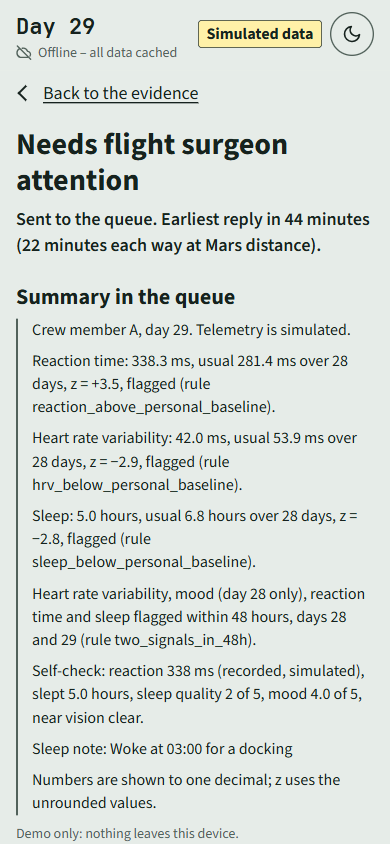
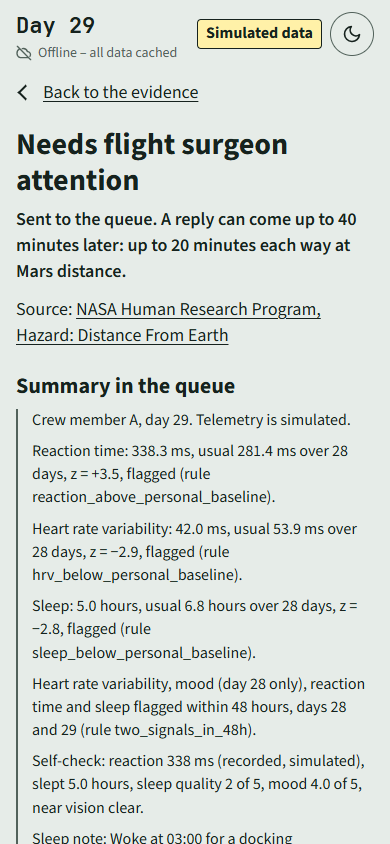
Mars delay: up to 20 minutes one way, up to 40 round trip, from NASA's Distance from Earth page

diff --git a/web/index.html b/web/index.html
@@ -508,7 +508,8 @@ fieldset { border: 0; padding: 0; margin: 28px 0 0; min-width: 0; }
 <section id="queue" aria-labelledby="queue-title" hidden>
   <button class="text-button back" type="button" data-go="evidence">Back to the evidence</button>
   <h1 id="queue-title" tabindex="-1">Needs flight surgeon attention</h1>
-  <p class="sent">Sent to the queue. Earliest reply in 44 minutes (22 minutes each way at Mars distance).</p>
+  <p class="sent">Sent to the queue. A reply can come up to 40 minutes later: up to 20 minutes each way at Mars distance.</p>
+  <p class="cite">Source: <a href="https://www.nasa.gov/hrp/hazard-distance-from-earth/" target="_blank" rel="noopener noreferrer">NASA Human Research Program, Hazard: Distance From Earth</a></p>
   <h2>Summary in the queue</h2>
   <div id="message" class="message"></div>
   <p class="meta">Demo only: nothing leaves this device.</p>

diff --git a/tests/test_web.py b/tests/test_web.py
@@ -395,6 +395,25 @@ def test_one_how_to_measure_line_under_each_self_check_part():
     assert '<label for="vision-clear">Clear</label>' in today and '<label for="vision-blurred">Blurred</label>' in today
 
 
+QUEUE_LINE = "Sent to the queue. A reply can come up to 40 minutes later: up to 20 minutes each way at Mars distance."
+QUEUE_SOURCE = "NASA Human Research Program, Hazard: Distance From Earth"
+QUEUE_URL = "https://www.nasa.gov/hrp/hazard-distance-from-earth/"
+
+
+def test_queue_line_gives_the_mars_delay_from_nasa():
+    """NASA HRP, Distance from Earth: "up to 20 minutes one way" (https://www.nasa.gov/hrp/hazard-distance-from-earth/);
+    the round trip is twice that. The old 22 and 44 had no source."""
+    html = Path("web/index.html").read_text(encoding="utf-8")
+    queue = html[html.index('<section id="queue"'):html.index('<section id="alert"')]
+    source = f'<p class="cite">Source: <a href="{QUEUE_URL}" target="_blank" rel="noopener noreferrer">{QUEUE_SOURCE}</a></p>'
+    assert re.search(re.escape(f'<p class="sent">{QUEUE_LINE}</p>') + r"\s*" + re.escape(source), queue), "source directly under the line"
+    assert not [p for p in BLOCKED if p in (QUEUE_LINE + " Source: " + QUEUE_SOURCE).lower()]
+    readme = Path("README.md").read_text(encoding="utf-8")
+    assert "A reply can come up to 40 minutes later: up to 20 minutes each way at Mars distance." in readme
+    for text in (html, readme, Path("web/app.js").read_text(encoding="utf-8")):
+        assert not re.search(r"(22|44)[ -]minute", text)
+
+
 def readme_source_rows() -> list[list[str]]:
     readme = Path("README.md").read_text(encoding="utf-8")
     start = readme.index("## Data sources")

diff --git a/README.md b/README.md
@@ -67,7 +67,7 @@ pytest -q
 python -m baseline.serve
 ```
 
-`pytest -q` should print **113 passed**. The last line opens the demo in your browser at http://localhost:8000 (or 8001–8010 if busy). Ctrl+C stops it.
+`pytest -q` should print **114 passed**. The last line opens the demo in your browser at http://localhost:8000 (or 8001–8010 if busy). Ctrl+C stops it.
 
 **On a phone:** `python -m baseline.serve --lan`, then open the second address it prints on a phone on the same wifi. Windows may ask to let Python through the firewall; allow it for private networks.
 
@@ -98,7 +98,7 @@ For a repeatable demo, use the **"Use recorded day-29 self-check"** button in st
 | 2 | **Console** | "Health status": one chart per signal, seven in all (heart rate, heart rate variability (HRV), blood oxygen, core temperature, sleep, mood and reaction time); a 7 days · 30 days switch (30 by default, same usual range in both). Grey band = your usual range. Orange dot = flagged. Orange ring = being watched. |
 | 3 | **What changed** | Each flag in two lines: today's value against your usual, then a plain status such as "Well outside your usual range, third day running." A signal outside its usual range three days running also gets a trend card under its flag: the three values, the change per day from a least-squares line through them, and whether a straight line from today gets back inside the usual range within 30 days, labelled "Projection from your own last 3 days, not a forecast." |
 | 4 | **Evidence card** | The change in plain words, the numbers, why it matters (study finding in bold, source linked, an "Evidence strength" line), and "Guidance": one step. "Mark step done" under the step shows it as done with the time, stored on the device; pressing it again undoes it, and each follow-up row on day 30 says whether the step was marked. "Show the maths" opens a histogram of the days the rule used (28 on day 29), today's line, the usual ± 2 SD lines and the sum in words, e.g. "Today is (338.3 − 281.4) ÷ 16.3 = 3.5 spreads above your usual." |
-| 5 | **Queue for flight surgeon** | The summary, and "Earliest reply in 44 minutes (22 minutes each way at Mars distance)." Display only. Nothing is sent. |
+| 5 | **Queue for flight surgeon** | The summary, and "A reply can come up to 40 minutes later: up to 20 minutes each way at Mars distance." Display only. Nothing is sent. |
 | 6 | **Next day** | Day 30: each of yesterday's flags compared with today. "Start the demo again" returns to step 1. |
 
 <p align="center">
@@ -215,7 +215,7 @@ web/                    the page: index.html, app.js, rules.js, trend.js, projec
 data/fixtures/          simulated 30-day records (clean, anomaly)
 cache/                  NTRS, OSDR and NOAA responses with source URL and fetch time
 docs/                   evidence map, evidence notes, design notes
-tests/                  113 tests
+tests/                  114 tests
 ```
 
 ---
